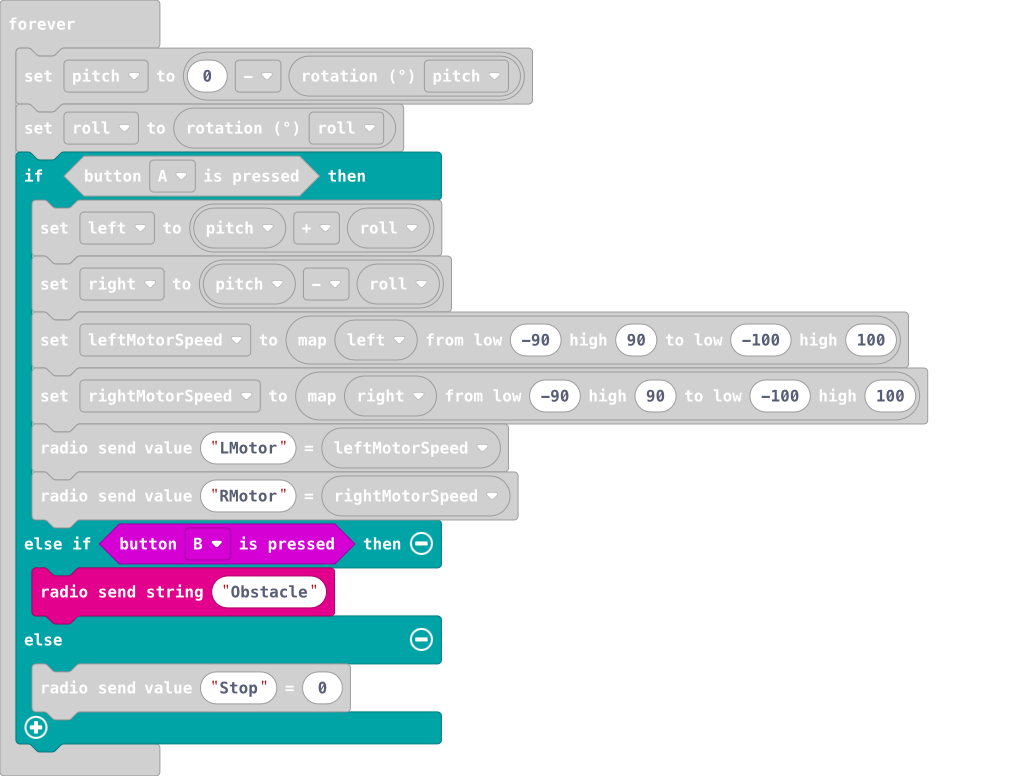
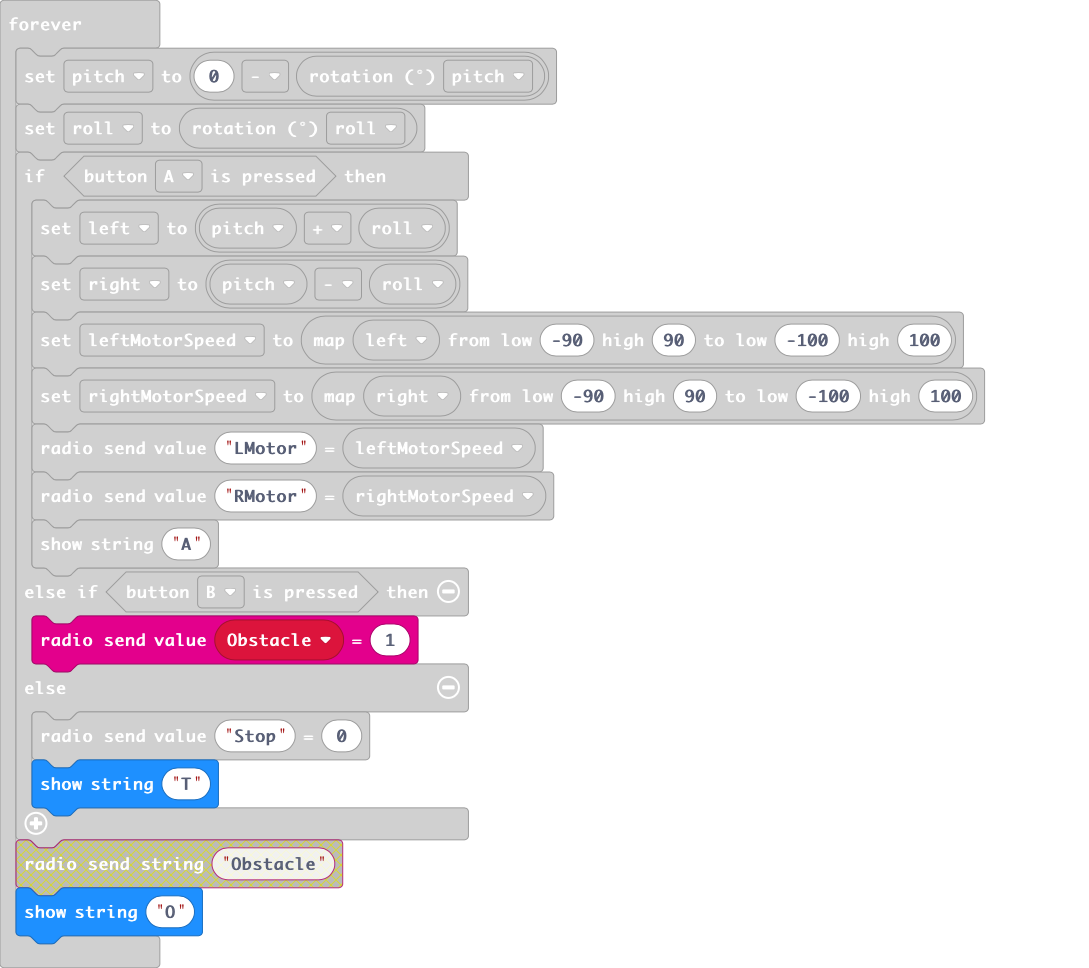
Update main.blocks, main.ts

Changed region(s): [[0.0, 0.0, 0.9302, 1.0]]

diff --git a/main.ts b/main.ts
@@ -18,9 +18,11 @@ basic.forever(function () {
         radio.sendValue("RMotor", rightMotorSpeed)
         basic.showString("A")
     } else if (input.buttonIsPressed(Button.B)) {
-        radio.sendString("Obstacle")
-        basic.showString("B")
+        let Obstacle = ""
+        radio.sendValue(Obstacle, 1)
+        basic.showString("O")
     } else {
         radio.sendValue("Stop", 0)
+        basic.showString("T")
     }
 })
